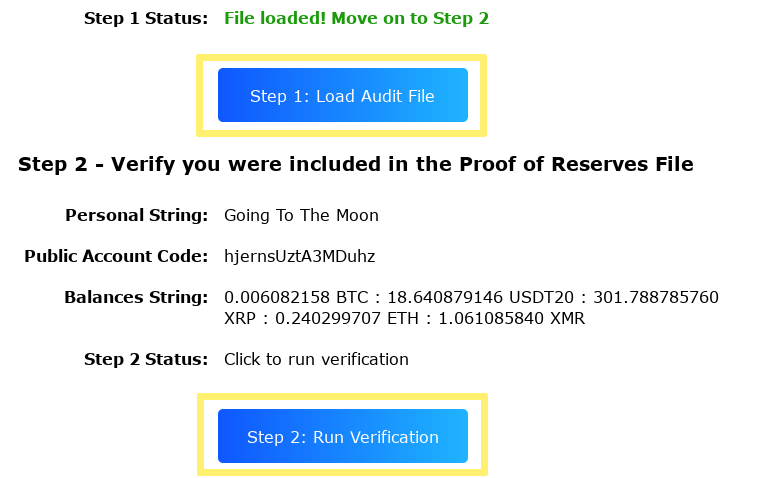
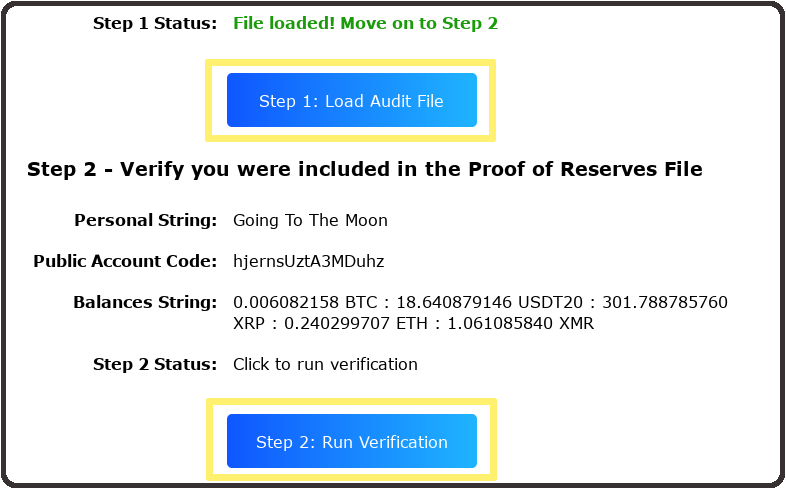
add borders to the images

diff --git a/README.md b/README.md
@@ -49,7 +49,7 @@ Then follow the instructions provided.
 Log into your TxQuick account and browse to [Account], [Proof of Reserves]. (https://ca.txquick.com/account/profile/proofOfReserves) On that page you can see a list of all of the audits that have been done and your Proof Sentence for each audit. Copy your Proof Sentence from the Proof of Reserves audit you want to participate in. 
 
    <p align="center"> 
-    <img src="images/userdata.png" border=2 style="width:600px;"/>
+    <img src="images/userdata.png" style="width:600px;"/>
    </p>
 
 ### STEP 2 - Verify you were included in the Proof of Reserves File
@@ -57,19 +57,19 @@ Log into your TxQuick account and browse to [Account], [Proof of Reserves]. (htt
 Browse to one of the Verification Websites listed above and paste in your Proof Sentence. After you have pasted your Proof Sentence into the Verification Website, click the "Load Audit File" button.  The tool will download the Proof of Reserves file from GitHub. After the Audit File is loaded, next click the "Run Verification" button.
 
    <p align="center">
-    <img src="images/validate.png" border=2 alt="" style="width:600px;"/>
+    <img src="images/validate.png" alt="" style="width:600px;"/>
    </p>
 
 You should see a successful result looking something like this:
 
    <p align="center">
-    <img src="images/validate2.png" border=2 alt="" style="width:600px;"/>
+    <img src="images/validate2.png" alt="" style="width:600px;"/>
    </p>
 
 And further down on the page you should see verification of the Merkle Proof Result as well:
 
    <p align="center">
-    <img src="images/validate3.png" border=2 alt="" style="width:600px;"/>
+    <img src="images/validate3.png" alt="" style="width:600px;"/>
    </p>
 
 That's it!
@@ -103,7 +103,7 @@ The trusted third party now must independently publish the resulting data from t
 Users wishing to verify their balance is represented in the Merkle Tree will need to log into their TxQuick account, browse to their account Proof of Reserves page, and look up their Proof Sentence as of the time that Merkle Tree Proof was created.
 
    <p align="center"> 
-    <img src="images/userdata.png" border=2 style="width:600px;"/>
+    <img src="images/userdata.png" style="width:600px;"/>
    </p>
 
 #### STEP 2(B): Users download and install this software
@@ -115,7 +115,7 @@ Users wishing to run their own in-depth proof may download, inspect, install, an
 Finally users must open index.html in their browser. Then the user must input their own Proof Sentence and follow the instructions to run the verification process. If the user data and balance provided matches the record in the Merkle Tree, a successful result will be displayed together with the node location of the user information within the Merkle tree. The Merkle Tree's root hash will be re-calculated using the imported file so that the user can verify the root hash and compare it to the root hash the trusted third party published in Step 1(C) above to ensure the correctness and completeness of the Merkle Tree.
 
    <p align="center">
-    <img src="images/validate.png" border=2 alt="" style="width:600px;"/>
+    <img src="images/validate.png" alt="" style="width:600px;"/>
    </p>
 
 ### PART 3 - (All Participants) Proof of Assets
@@ -125,7 +125,7 @@ Finally users must open index.html in their browser. Then the user must input th
 TxQuick provides the public with the blockchain addresses used to store customer assets. TxQuick provides these addresses publicly at https://ca.txquick.com/walletStatus. To prove TxQuick owns the blockchain addresses in question, the public and a trusted third party may periodically observe TxQuick conducting transactions moving small pre-determined amounts from each major wallet identified.
 
    <p align="center">
-    <img src="images/walletstatus.png" border=2 alt="" style="width:600px;"/>
+    <img src="images/walletstatus.png" alt="" style="width:600px;"/>
    </p>
 
 #### STEP 3(B): The public and/or trusted third party adds up the balances all TxQuick public chain wallets
